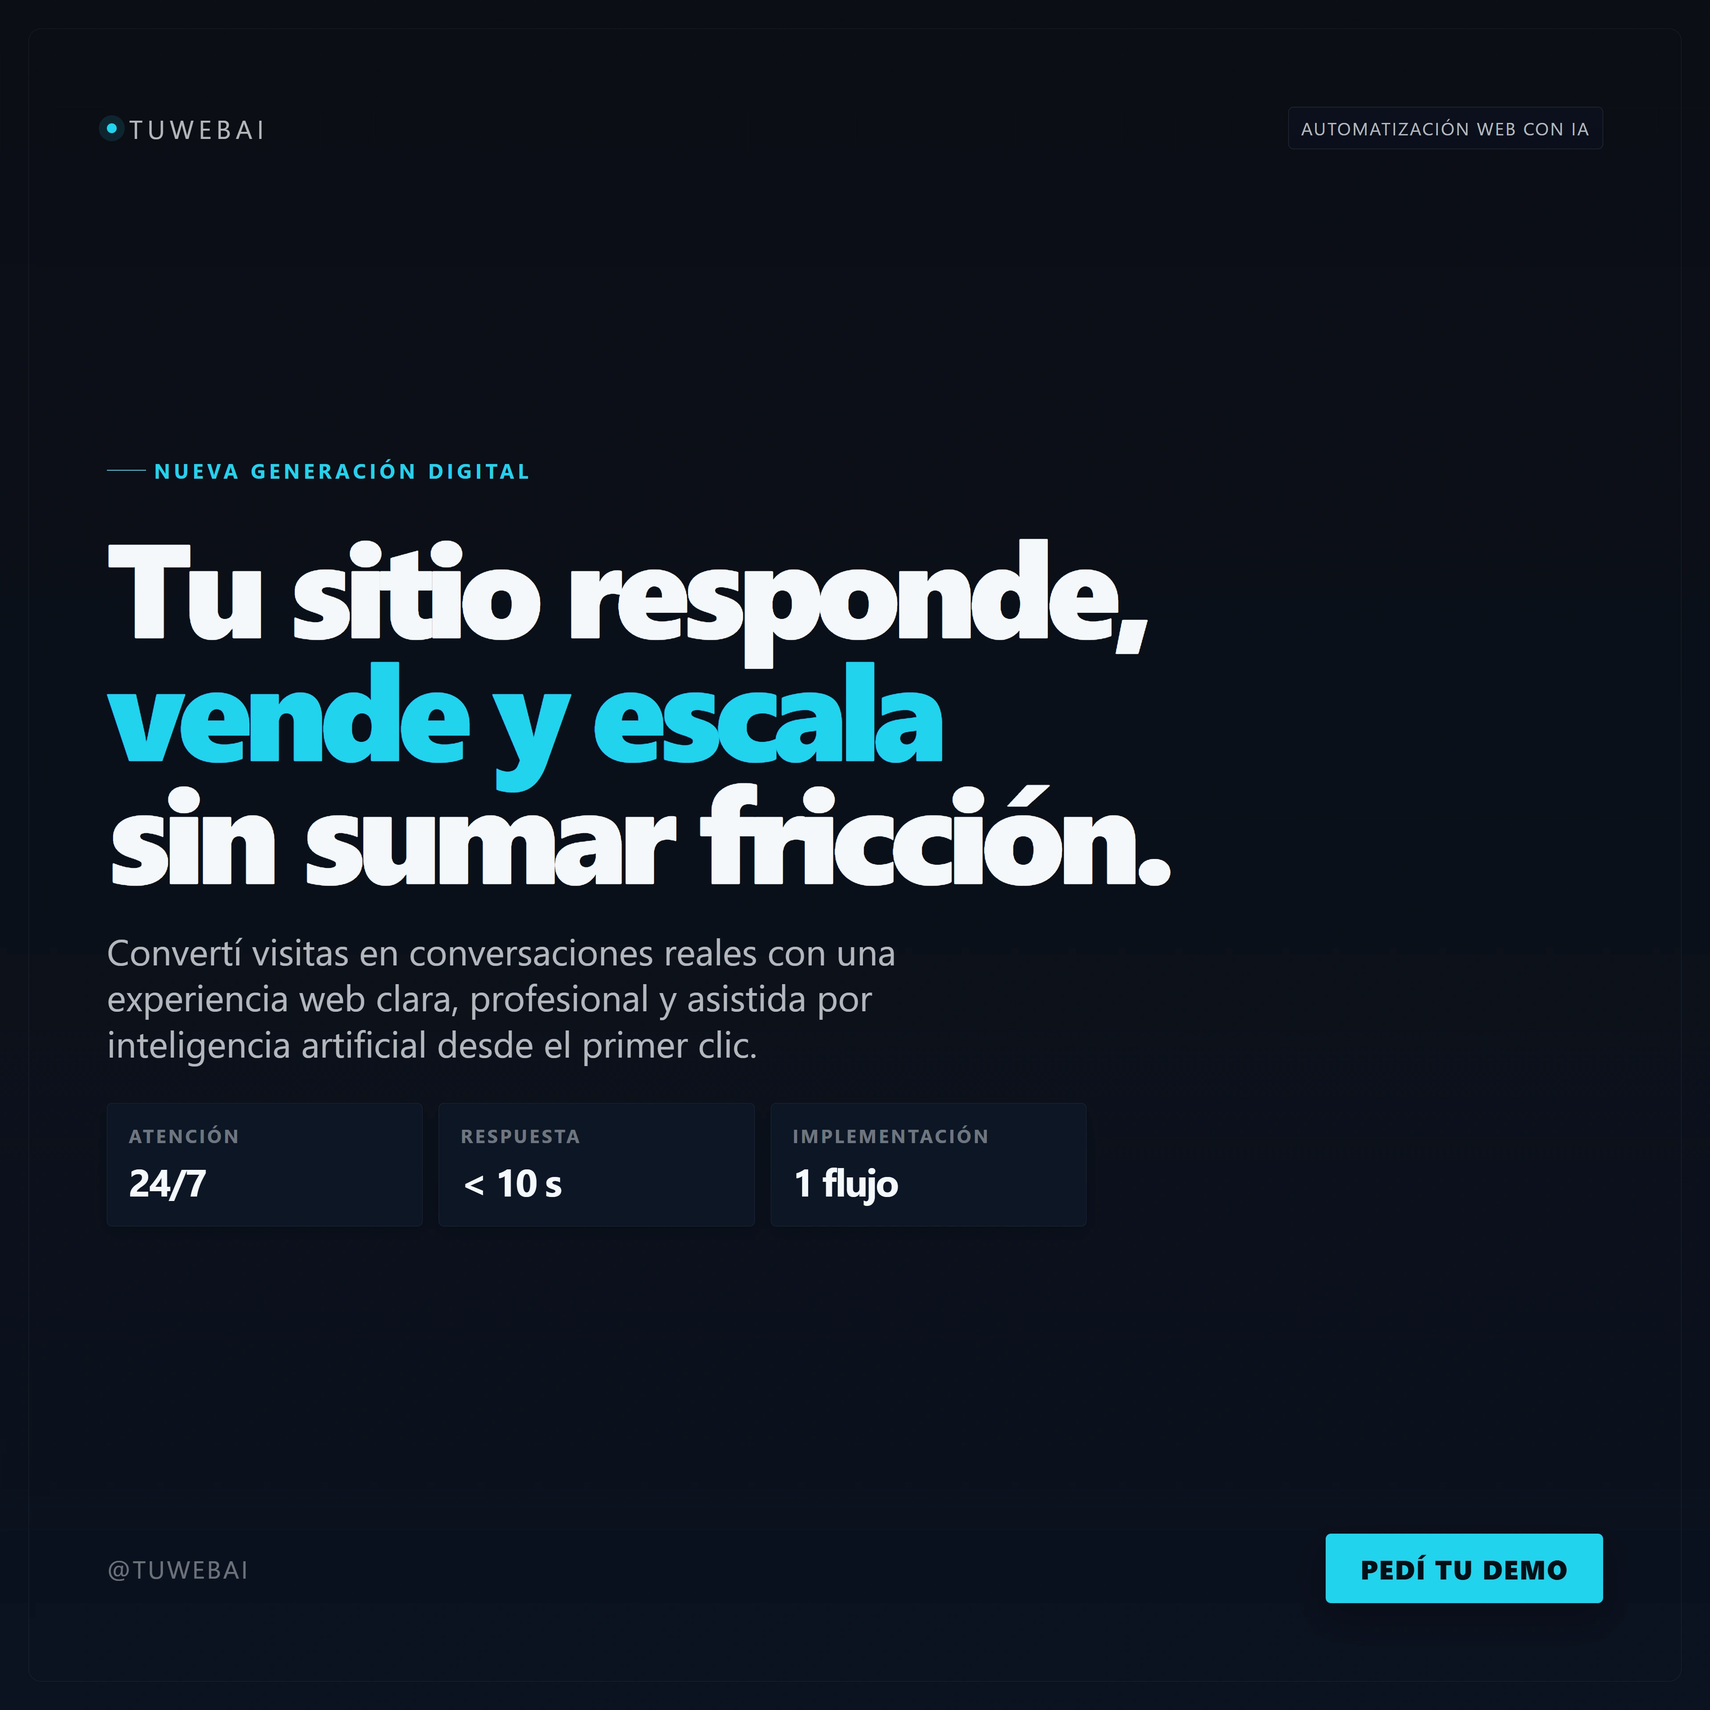
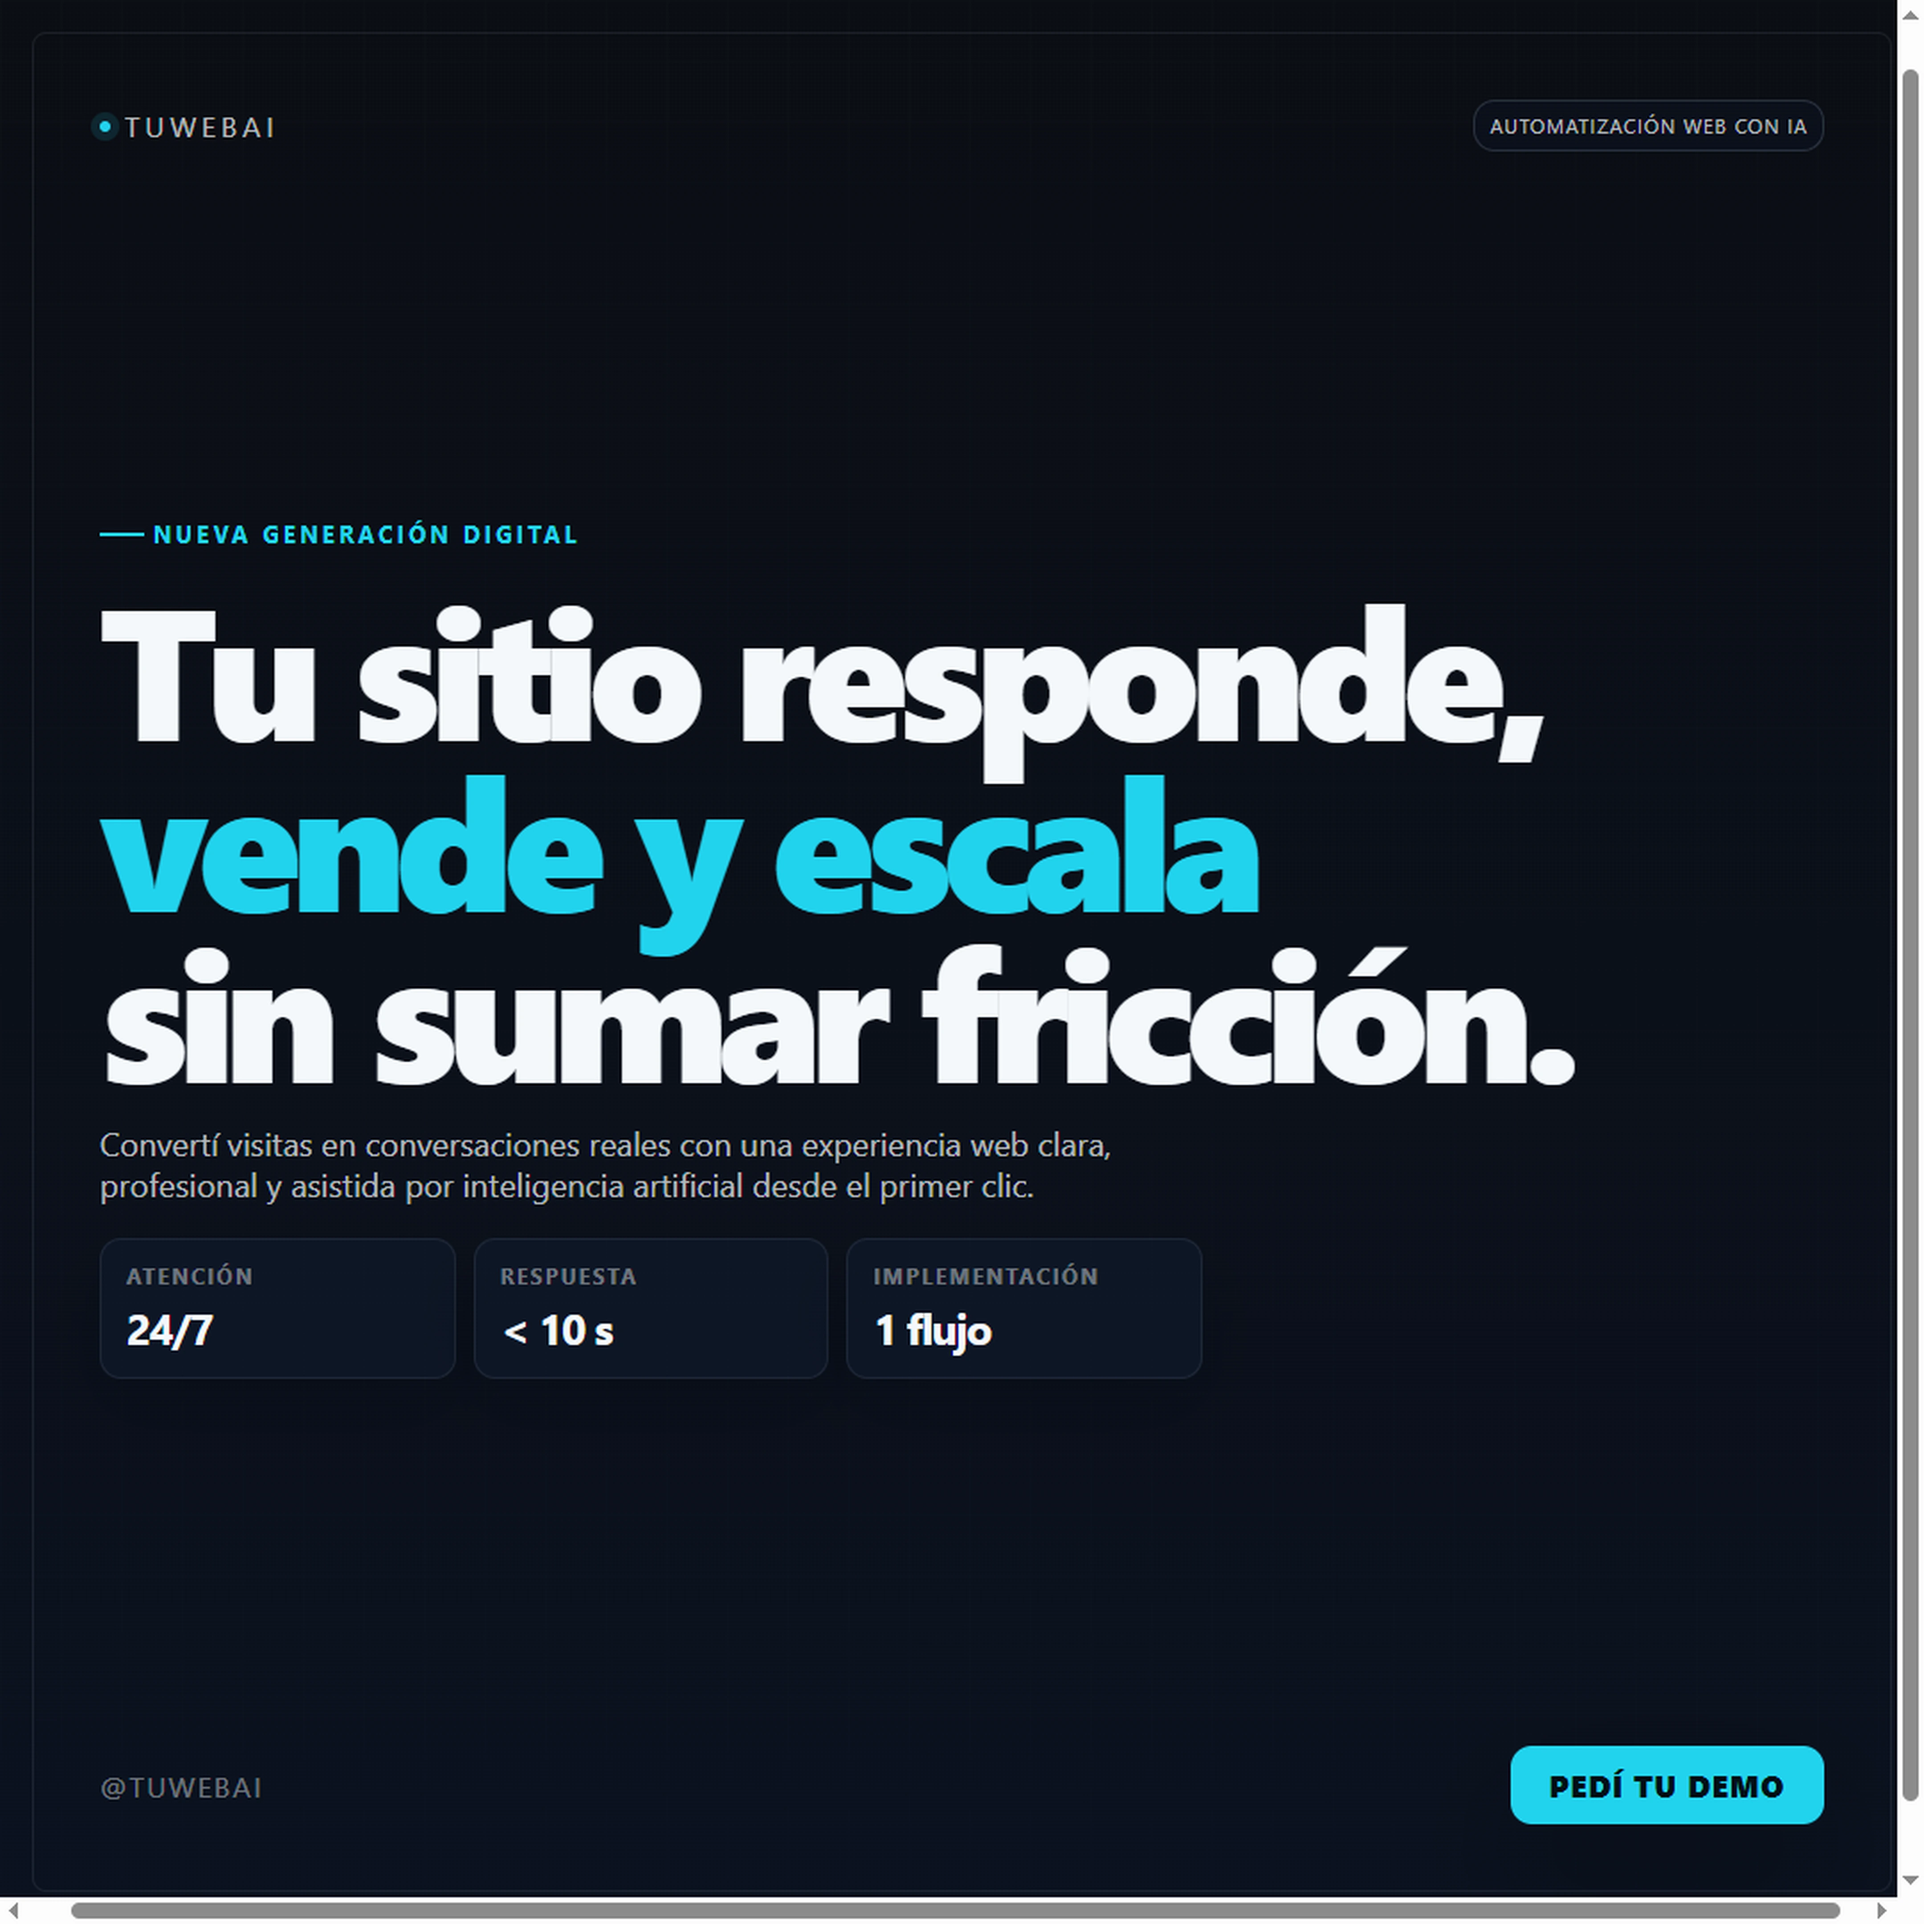
fix: ajustar canvas fijo para post instagram

diff --git a/assets/instagram/tuwebai-post.html b/assets/instagram/tuwebai-post.html
@@ -2,8 +2,7 @@
 <html lang="es">
 <head>
   <meta charset="UTF-8" />
-  <meta name="viewport" content="width=device-width, initial-scale=1.0" />
-  <title>TuWebAI Instagram Post</title>
+  <meta name="viewport" content="width=1080, initial-scale=1, maximum-scale=1">  <title>TuWebAI Instagram Post</title>
   <style>
     :root {
       --bg-base: #06090f;
@@ -33,11 +32,14 @@
 
     * { box-sizing: border-box; }
 
+    html, body {
+      width: 100%;
+      min-height: 100%;
+    }
+
     body {
       margin: 0;
-      min-height: 100vh;
-      display: grid;
-      place-items: center;
+      padding: 24px;
       background:
         radial-gradient(circle at top right, rgba(34, 211, 238, 0.08), transparent 28%),
         linear-gradient(180deg, #06090f 0%, #08101b 100%);
@@ -46,14 +48,14 @@
     }
 
     .post {
-      width: 3840px;
-      height: 3840px;
+      width: 1080px;
+      height: 1080px;
       position: relative;
       overflow: hidden;
       background:
         linear-gradient(180deg, rgba(255,255,255,0.02), rgba(255,255,255,0)),
         linear-gradient(180deg, var(--bg-base) 0%, var(--bg-surface) 100%);
-      padding: 240px;
+      padding: 56px;
       display: flex;
       flex-direction: column;
       justify-content: space-between;
@@ -65,7 +67,7 @@
       background-image:
         linear-gradient(rgba(148, 163, 184, 0.035) 1px, transparent 1px),
         linear-gradient(90deg, rgba(148, 163, 184, 0.035) 1px, transparent 1px);
-      background-size: 120px 120px;
+      background-size: 34px 34px;
       mask-image: linear-gradient(180deg, rgba(0,0,0,0.32), rgba(0,0,0,0.08));
       pointer-events: none;
     }
@@ -81,28 +83,28 @@
     .brand {
       display: inline-flex;
       align-items: center;
-      gap: 28px;
-      font-size: 58px;
+      gap: 8px;
+      font-size: 16px;
       letter-spacing: 0.18em;
       text-transform: uppercase;
       color: var(--text-secondary);
     }
 
     .brand-mark {
-      width: 22px;
-      height: 22px;
+      width: 6px;
+      height: 6px;
       border-radius: 999px;
       background: var(--signal);
-      box-shadow: 0 0 0 18px var(--signal-muted);
+      box-shadow: 0 0 0 5px var(--signal-muted);
     }
 
     .meta {
-      padding: 20px 28px;
+      padding: 6px 8px;
       border: 1px solid var(--border);
       border-radius: var(--radius-lg);
       background: rgba(11, 18, 32, 0.58);
       color: var(--text-secondary);
-      font-size: 40px;
+      font-size: 11px;
       letter-spacing: 0.08em;
       text-transform: uppercase;
     }
@@ -111,16 +113,16 @@
       position: relative;
       z-index: 1;
       display: grid;
-      gap: 84px;
-      max-width: 2800px;
+      gap: 18px;
+      max-width: 860px;
     }
 
     .eyebrow {
       display: inline-flex;
       align-items: center;
-      gap: 18px;
+      gap: 5px;
       color: var(--signal);
-      font-size: 46px;
+      font-size: 13px;
       font-weight: 700;
       letter-spacing: 0.18em;
       text-transform: uppercase;
@@ -128,18 +130,18 @@
 
     .eyebrow::before {
       content: "";
-      width: 88px;
+      width: 25px;
       height: 2px;
       background: var(--signal);
     }
 
     h1 {
       margin: 0;
-      font-size: 300px;
+      font-size: 104px;
       line-height: 0.92;
       letter-spacing: -0.06em;
       font-weight: 800;
-      max-width: 3000px;
+      max-width: 860px;
     }
 
     .signal-line {
@@ -148,9 +150,9 @@
     }
 
     .description {
-      max-width: 2100px;
+      max-width: 640px;
       margin: 0;
-      font-size: 82px;
+      font-size: 18px;
       line-height: 1.26;
       color: var(--text-secondary);
     }
@@ -158,12 +160,12 @@
     .stats {
       display: grid;
       grid-template-columns: repeat(3, minmax(0, 1fr));
-      gap: 36px;
-      max-width: 2200px;
+      gap: 10px;
+      max-width: 619px;
     }
 
     .stat {
-      padding: 44px 48px;
+      padding: 12px 14px;
       border: 1px solid var(--border-subtle);
       border-radius: var(--radius-lg);
       background: rgba(16, 26, 45, 0.58);
@@ -172,25 +174,25 @@
 
     .stat strong {
       display: block;
-      margin-bottom: 16px;
-      font-size: 42px;
+      margin-bottom: 5px;
+      font-size: 12px;
       color: var(--text-muted);
       text-transform: uppercase;
       letter-spacing: 0.12em;
     }
 
     .stat span {
-      font-size: 86px;
+      font-size: 24px;
       font-weight: 700;
       letter-spacing: -0.04em;
     }
 
     .footer {
-      gap: 48px;
+      gap: 14px;
     }
 
     .handle {
-      font-size: 56px;
+      font-size: 16px;
       color: var(--text-muted);
       letter-spacing: 0.08em;
       text-transform: uppercase;
@@ -200,12 +202,12 @@
       display: inline-flex;
       align-items: center;
       justify-content: center;
-      min-height: 156px;
-      padding: 0 78px;
+      min-height: 44px;
+      padding: 0 22px;
       border-radius: var(--radius-lg);
       background: var(--signal);
       color: #031017;
-      font-size: 60px;
+      font-size: 17px;
       font-weight: 800;
       letter-spacing: 0.04em;
       text-transform: uppercase;
@@ -214,9 +216,9 @@
 
     .frame {
       position: absolute;
-      inset: 64px;
+      inset: 18px;
       border: 1px solid rgba(148, 163, 184, 0.12);
-      border-radius: 28px;
+      border-radius: 8px;
       pointer-events: none;
     }
   </style>
